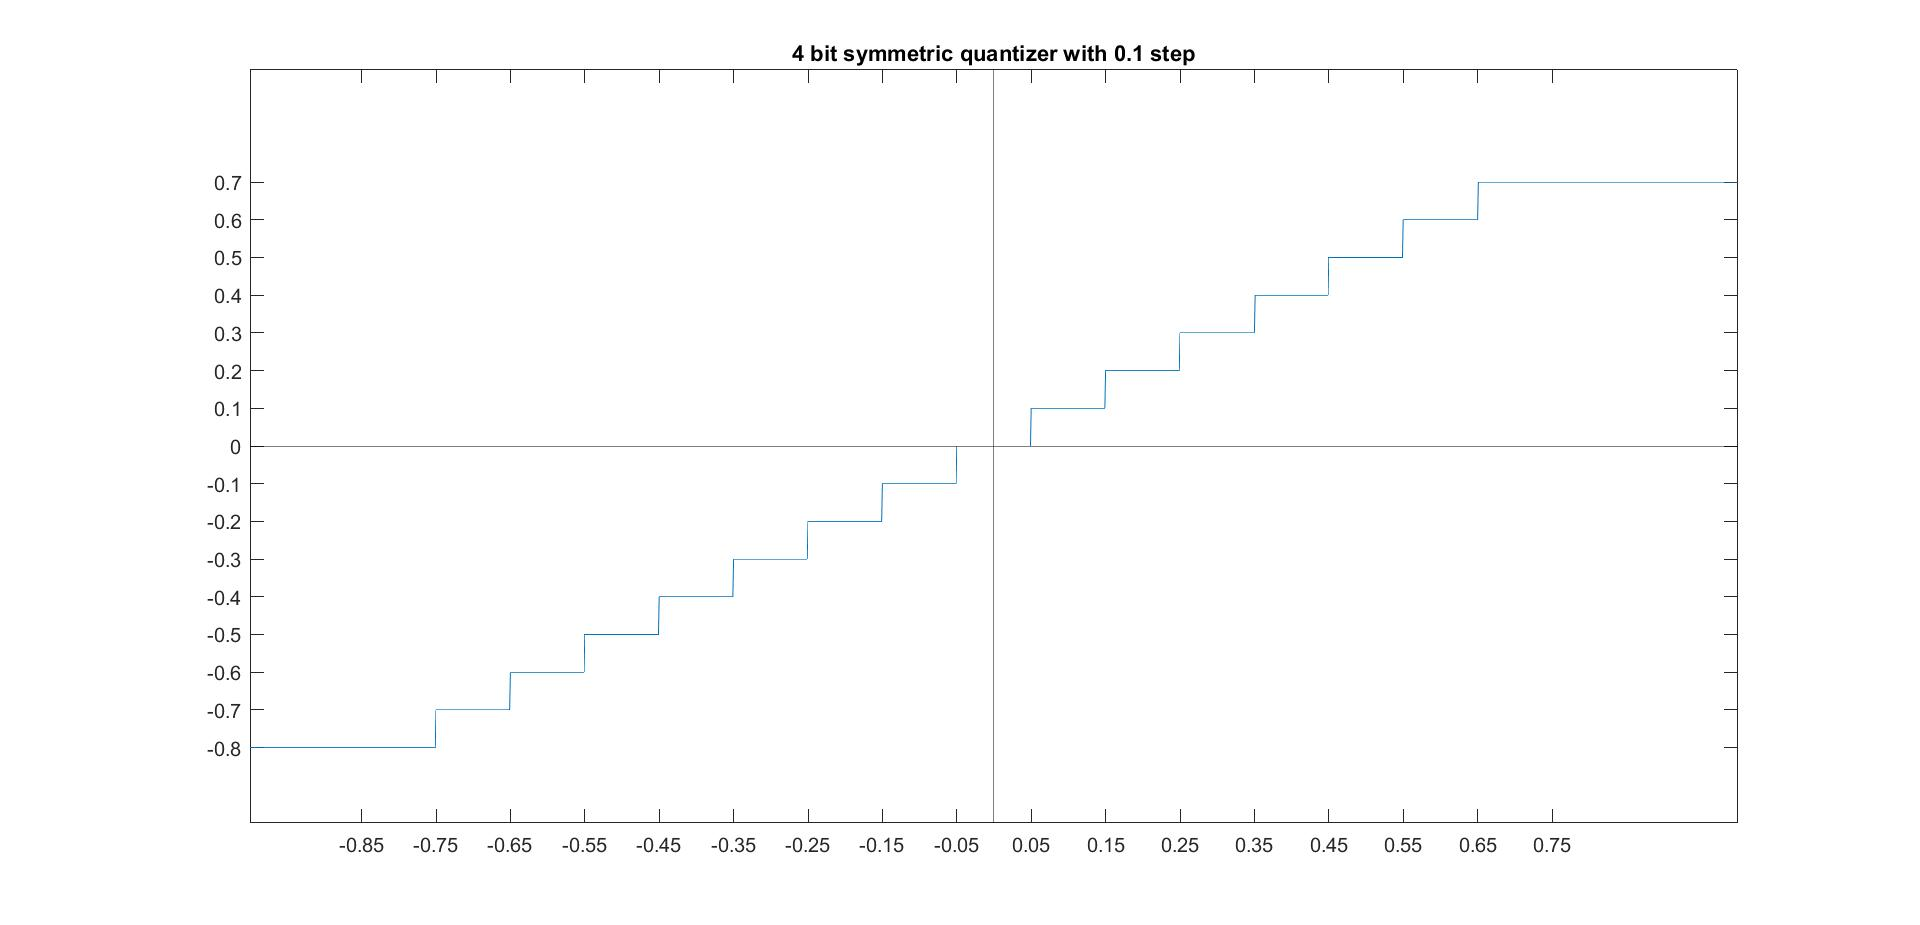
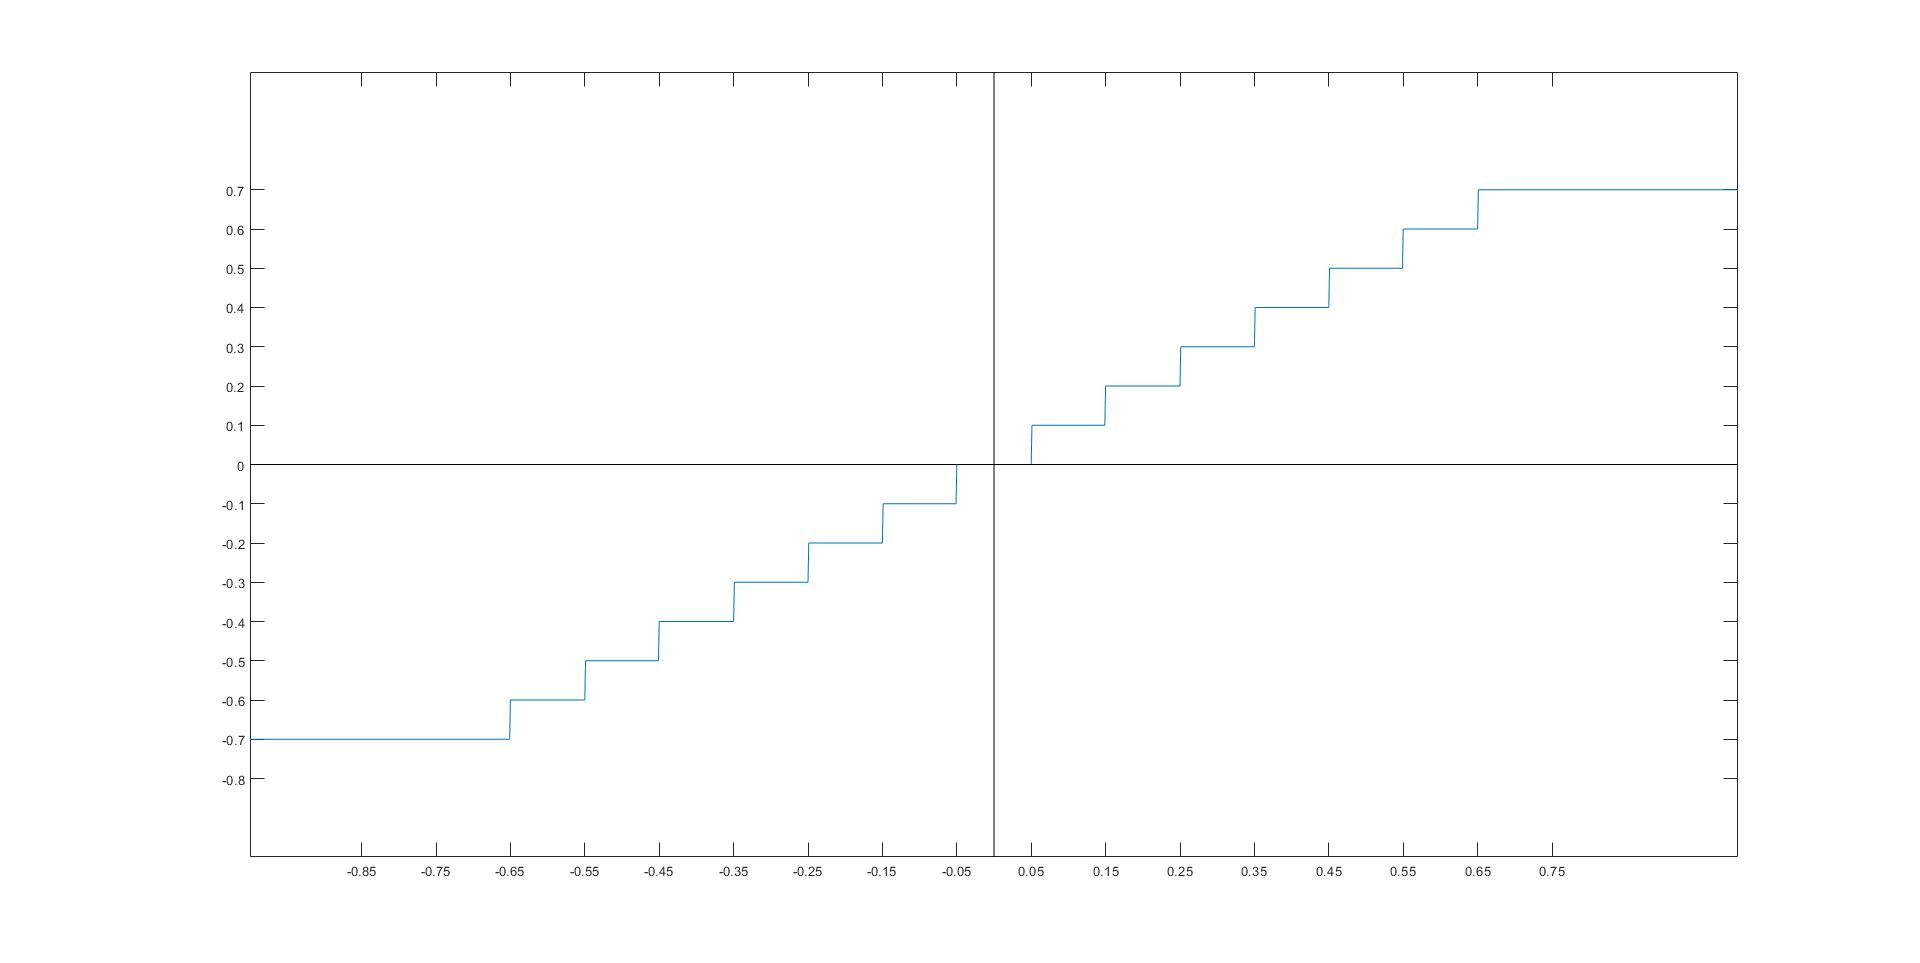
FIX: Change gitignore

diff --git a/other/quantizer.m b/other/quantizer.m
@@ -1,6 +1,6 @@
 a = -1:0.001:1;
-minimum = -0.8;
-L = 2^4;
+minimum = -0.7;
+L = 2^4 - 1 ;
 delta = 0.1;
 I  = round((a-minimum)./delta);
 I(I >= L) = L-1;
@@ -10,6 +10,5 @@ plot(a,pq);
 hold on;
 plot(zeros(length(-1:0.1:1),1),-1:0.1:1,'k');
 plot(-1:0.1:1,zeros(length(-1:0.1:1),1),'k');
-title("4 bit symmetric quantizer with 0.1 step");
 yticks([-0.8:0.1:0.7])
 xticks([-0.85:0.1:0.75])

diff --git a/other/quantizer2.m b/other/quantizer2.m
@@ -21,12 +21,8 @@
 % xticks([-0.85:0.1:0.75])
 
 
-
-if frameType == "ESH"
-    I = NaN(4,8);
-else
-    I = NaN(4,1);
-end
+a = -1:0.001:1;
+a = a';
 minimum = -0.7;
 L = 2^4;
 delta = 0.1;
@@ -36,3 +32,5 @@ I(a>0) = I2;
 I(a<=0) = I1;
 I(I >= L-1) = L-2;
 I(I<0) = 0;
+pq = minimum + I .* delta;
+plot(a,pq)
